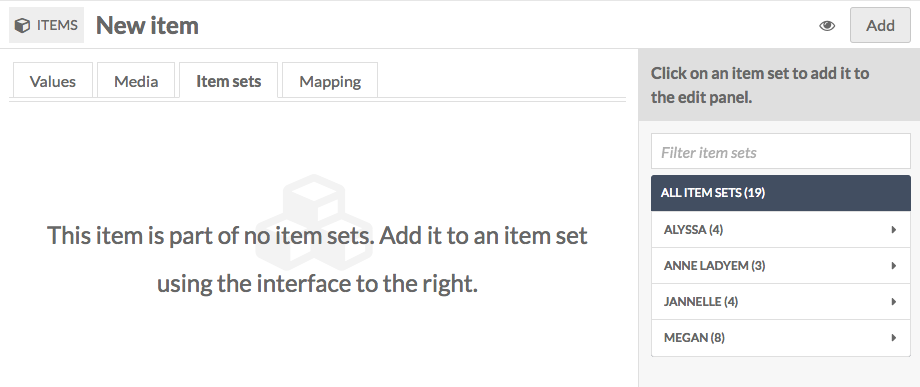
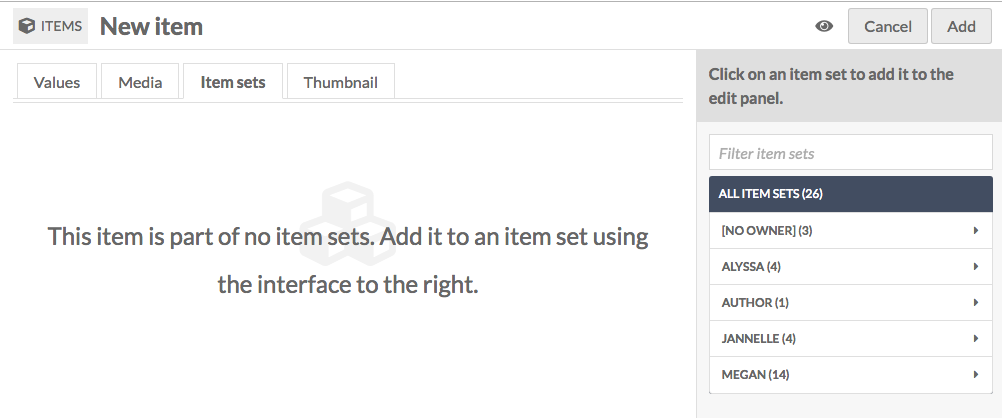
thumbnail item

diff --git a/docs/content/items.md b/docs/content/items.md
@@ -56,7 +56,7 @@ Before creating items, site admins may want to create [Resource Templates](/cont
 ### Values
 The Values tab is where you enter metadata, such as title, description, etc.
 
-![Basic view of add items page, with no content entered](/content/contentfiles/items_add1.png)
+![Basic view of add items page, with no content entered](/content/contentfiles/items_add.png)
 
 You can select a resource template from the drop-down menu. Resource templates are defined by the site administrators and editors.
 
@@ -78,7 +78,6 @@ You can set individual properties as Private or Publicly visible using the eye i
 In the image below, the first property (Title) is public as indicated by the open eye icon. The second property (Description) is private as indicated by the slashed-through eye icon. Clicking or hitting enter on the eye icon toggles between public and private. 
 
 ![As described](/content/contentfiles/item_propviz.png)
-
 
 #### Text
 Text fields allow for unformatted text entry.
@@ -124,13 +123,15 @@ Using the buttons on the *Add New Media* menu on the right side of the screen, s
 - *oEmbed*: insert an embedded representation of an external URL. Note that this will only work with content from [existing oEmbed implementations](http://oembed.com/#section7) - use the url in your browser’s location bar.
 - *YouTube*: add a link to embed a YouTube video. Use the url from your browser’s location bar (with `/watch/` in it) rather than the `youtu.be` link.
 
-If you have more than one media instance for an item, you can reorder them by dragging and drop each media instance block, using the icon of three lines in the upper left corner of the block as the anchor when dragging (click there).
-
 You can edit media later by going by editing an item, navigating to the *media* tab, and clicking the edit button (pencil) for a media when editing the item. 
 
 You can delete any media instance from the item's edit page using the delete button (trashcan) on the upper right corner of the media block.
 
 ![Image shows a close up of a media item being removed - it is red and has an undo curling arrow at the right end of the block](/content/contentfiles/item_mediablockdelete.png)
+
+If you have more than one media instance for an item, you can reorder them by dragging and drop each media instance block, using the icon of three lines in the upper left corner of the block as the anchor when dragging.
+
+Omeka S uses the topmost media for an item to create thumbnail images for that item on browse and show pages. 
 
 ### Item Sets
 You can only add items to existing item sets.
@@ -141,7 +142,26 @@ You can also filter item sets using the text entry bar above the list of users.
 
 To remove a connection between an item and item set, click the delete (trash can) button to the right of the item set title.
 
-![item set tab with one item set added](/content/contentfiles/items_itemset.png)
+![item set tab with no item sets assigned](/content/contentfiles/items_itemset.png)
+
+### Thumbnail
+By default, Omeka S will use the topmost media to generate a thumbnail for the item. If you want to use a non-media image for the thumbnail for an item you can set it here.
+
+![Thumbnail tab with no asset selected. The tab displays a message about thumbnail creation and a button to "select" an asset](/content/contentfiles/item_thumbnailtab.png)
+
+When you use an asset thumbnail instead of uploading media, the asset thumbnail does not display on the item's public show page. This makes such thumbnails useful for items which have no media but which would benefit from a thumbnail for the browse view, or for items whose media does not render an elegant thumbnail, such as audio or visual files.
+
+The assets you select from and upload as thumbnails in this tab are the same as those created for [site logos](../sites/site_theme/#settings-options). 
+
+To assign an asset as a thumbnail, click on the Select button in the main work area of the tab. This will open a drawer on the right side. 
+
+![Select drawer with upload option and two assets, both of which are images.](/content/contentfiles/item_thumbdrawer.png)
+
+The drawer offers two options: upload a file using your browser, or select from existing assets. To select an existing asset, simply click on it and it will automatically be assigned to the item. 
+
+![Add item open to Thumbnail tab, where an asset which is an image of a quill pen on a scrolled piece of paper is in the main work area. Below it are buttons for Select and Clear](/content/contentfiles/item_thumbnail.png)
+
+To remove an asset which you have assigned as a thumbnail, click the "Clear" button below the image of the asset. To replace it, click select and either choose or upload a new thumbnail asset.
 
 
 ### Visibility
